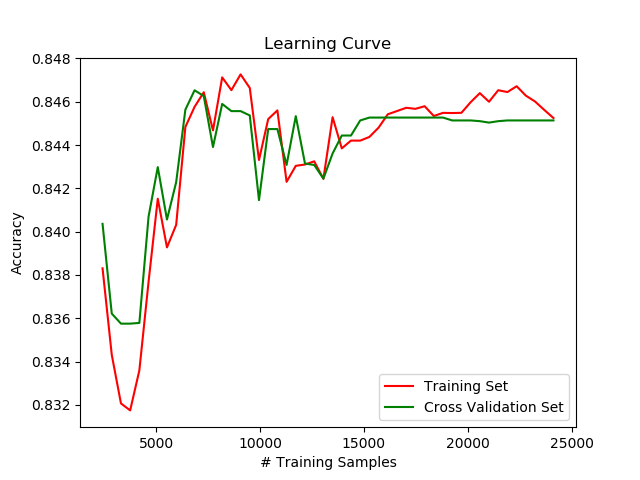
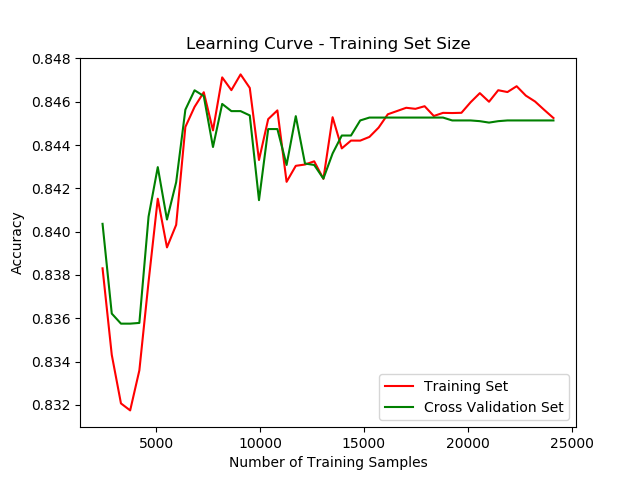
Fixing learning curves

Changed region(s): [[0.2812, 0.0625, 0.75, 0.125], [0.3438, 0.9375, 0.6562, 1.0]]

diff --git a/solution/classifiers/census_decision_tree.py b/solution/classifiers/census_decision_tree.py
@@ -97,7 +97,9 @@ try:
         filled=True)
     graph = graphviz.Source(dots, format='png')
     graph.render(r'census_output/census_decision_tree')
-except Exception:
+except Exception as e:
+    print("Exception using graphviz with error: %s" % e)
+    print("Did you install graphviz (sudo apt-get install graphviz)?")
     pass
 
 # Predict income with the trained best model
@@ -129,9 +131,9 @@ train_sizes, train_scores, valid_scores = learning_curve(
     cv=5)
 
 plt.figure()
-plt.title("Learning Curve")
+plt.title("Learning Curve - Training Set Size")
 
-plt.xlabel("# Training Samples")
+plt.xlabel("Number of Training Samples")
 plt.ylabel("Accuracy")
 
 plt.plot(train_sizes, np.mean(train_scores, axis=1), color="r", label="Training Set")
@@ -151,12 +153,14 @@ grid_search = GridSearchCV(
         # 'min_samples_leaf': range(100, 1000, 100),
         # 'min_impurity_decrease': [0.009, 0.1]
     },
-    cv=kfold
+    cv=5
 )
 
 grid_search.fit(x_train, y_train)
 
 plt.figure()
+plt.title("Learning Curve - Depth")
+plt.xlabel("Depth")
+plt.ylabel("Accuracy")
 plt.plot(list(range(3, 16)), grid_search.cv_results_['mean_test_score'])
-plt.show()
-
+plt.savefig("census_output/depth_learning_curve.png")
